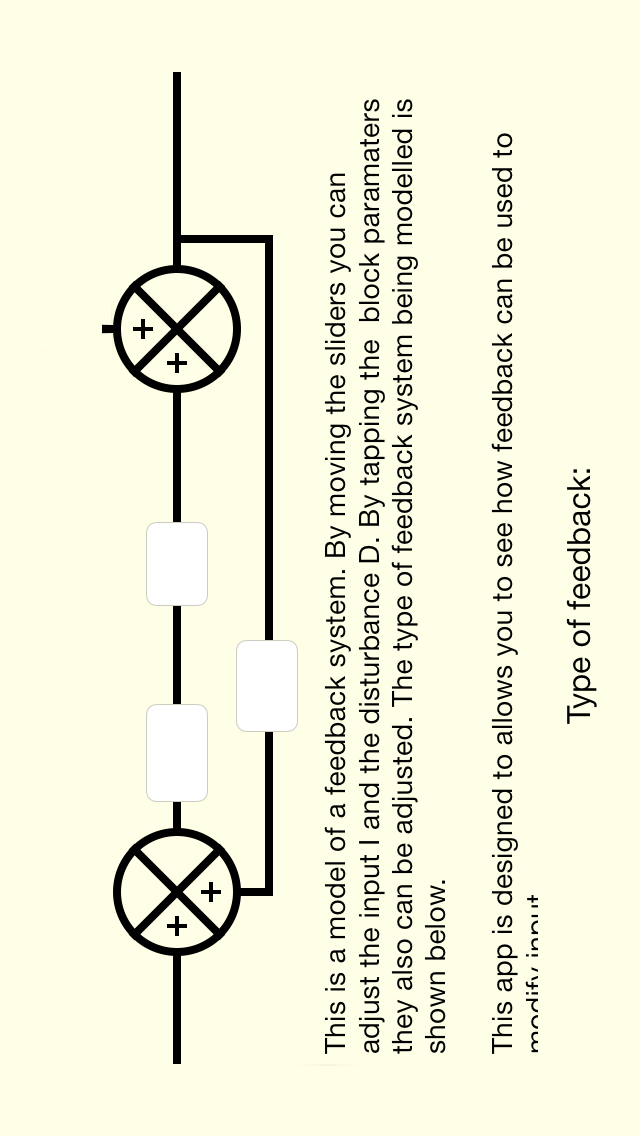
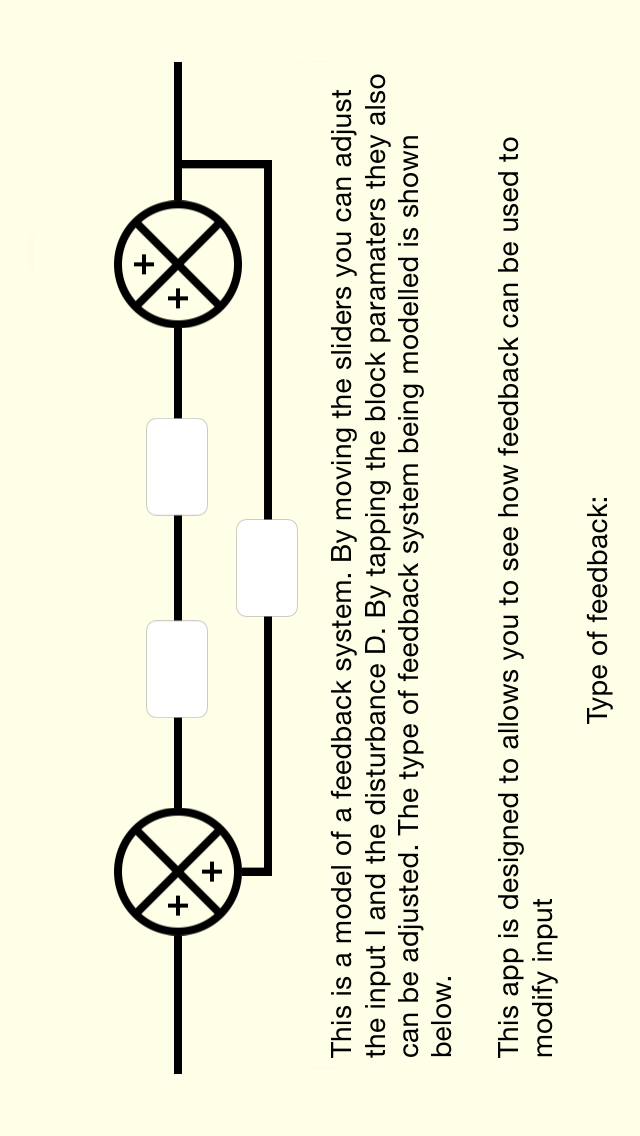
UIFeedbackModelBlock now has a pretty interface

diff --git a/FeedbackUIFramework/UIFeedbackModelBlock.m b/FeedbackUIFramework/UIFeedbackModelBlock.m
@@ -29,17 +29,49 @@
 }
 
 - (void)initialize {
-    [self setBackgroundColor:[UIColor redColor]];
+    self.layer.borderWidth = 0.5;
+    self.layer.borderColor = [UIColor lightGrayColor].CGColor;
+    self.layer.masksToBounds = YES;
+    self.layer.cornerRadius = 5;
+    self.layer.shadowColor = [UIColor blackColor].CGColor;
+    self.layer.shadowOffset = CGSizeMake(0, 3);
+    self.layer.shadowOpacity = 0.8;
+    [self setBackgroundColor:[UIColor whiteColor]];
 }
 
-/*
+
 // Only override drawRect: if you perform custom drawing.
 // An empty implementation adversely affects performance during animation.
 - (void)drawRect:(CGRect)rect {
     // Drawing code
     CGContextRef context = UIGraphicsGetCurrentContext();
-
-}*/
+    CGContextSetLineWidth(context, 1.5);
+    [[UIColor redColor] setStroke];
+    CGContextMoveToPoint(context, 5, self.bounds.size.height*0.40);
+    // start at the side somewhere
+    CGContextAddCurveToPoint(context, 5, self.bounds.size.height*0.40, self.bounds.size.width*0.5, -10, self.bounds.size.width-5, self.bounds.size.height*0.40);
+    CGContextMoveToPoint(context, 5, self.bounds.size.height*0.60);
+    CGContextAddCurveToPoint(context, 5, self.bounds.size.height*0.60, self.bounds.size.width*0.5, self.bounds.size.height+9, self.bounds.size.width-5, self.bounds.size.height*0.60);
+    CGContextStrokePath(context);
+    
+    CGContextBeginPath(context);
+        CGContextMoveToPoint(context, self.bounds.size.width-3, self.bounds.size.height*0.45);
+        CGContextAddLineToPoint(context, self.bounds.size.width-15, self.bounds.size.height*0.40);
+        CGContextAddLineToPoint(context, self.bounds.size.width-10, self.bounds.size.height*0.15);
+        CGContextSetRGBFillColor(context, 1, 0, 0, 1);
+        CGContextFillPath(context);
+    CGContextClosePath(context);
+    CGContextStrokePath(context);
+    
+    CGContextBeginPath(context);
+        CGContextMoveToPoint(context, 3, self.bounds.size.height*0.55);
+        CGContextAddLineToPoint(context, 15, self.bounds.size.height*0.60);
+        CGContextAddLineToPoint(context, 10, self.bounds.size.height*0.85);
+        CGContextSetRGBFillColor(context, 1, 0, 0, 1);
+        CGContextFillPath(context);
+    CGContextClosePath(context);
+    CGContextStrokePath(context);
+}
 
 
 @end

diff --git a/FeedbackUIFramework/UILimitBlock.m b/FeedbackUIFramework/UILimitBlock.m
@@ -54,6 +54,14 @@
 }
 
 - (void)setupLabels {
+    self.layer.borderWidth = 0.5;
+    self.layer.borderColor = [UIColor lightGrayColor].CGColor;
+    self.layer.masksToBounds = YES;
+    self.layer.cornerRadius = 5;
+    self.layer.shadowColor = [UIColor blackColor].CGColor;
+    self.layer.shadowOffset = CGSizeMake(0, 3);
+    self.layer.shadowOpacity = 0.8;
+    
     self.autoresizesSubviews = YES;
     self.limiting = NO;
     self.negLabel = [[UILabel alloc] initWithFrame:CGRectMake(0, self.bounds.size.height*0.5-10.5, self.bounds.size.width*0.45, 21)];
@@ -107,13 +115,6 @@
 {
     // Drawing code
     CGContextRef context = UIGraphicsGetCurrentContext();
-    self.layer.borderWidth = 0.5;
-    self.layer.borderColor = [UIColor lightGrayColor].CGColor;
-    self.layer.masksToBounds = YES;
-    self.layer.cornerRadius = 5;
-    self.layer.shadowColor = [UIColor blackColor].CGColor;
-    self.layer.shadowOffset = CGSizeMake(0, 3);
-    self.layer.shadowOpacity = 0.8;
     if(self.limiting)
         [[UIColor redColor] setStroke];
     else
